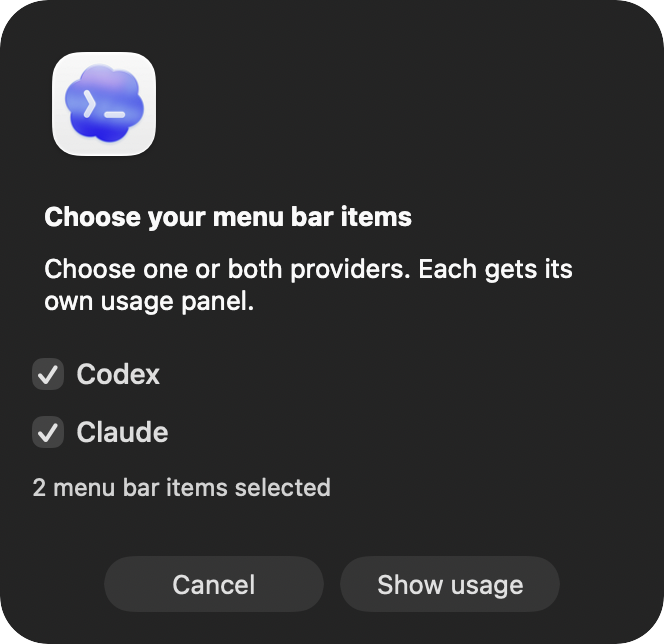
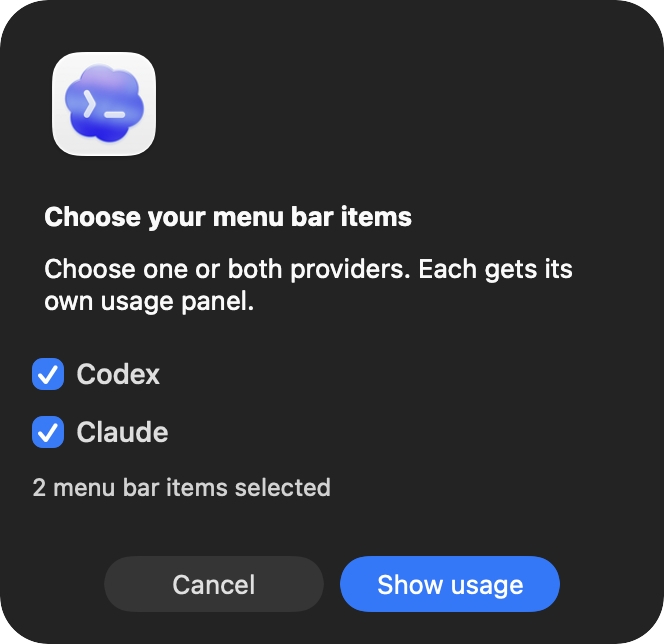
Capture provider chooser with active default button (#15)

Changed region(s): [[0.512, 0.8385, 0.8434, 0.9627], [0.0301, 0.559, 0.1205, 0.7143]]

diff --git a/scripts/capture_provider_chooser.swift b/scripts/capture_provider_chooser.swift
@@ -20,11 +20,40 @@ struct ProviderChooserCapture {
         app.finishLaunching()
         let chooser = UsageProviderChooser(current: .both)
         var succeeded = false
-        let timer = Timer(timeInterval: 1, repeats: false) { _ in
+        var activeSince: Date?
+        let deadline = Date().addingTimeInterval(5)
+        let timer = Timer(timeInterval: 0.1, repeats: true) { timer in
             MainActor.assumeIsolated {
+                let window = chooser.alert.window
+                let button = chooser.alert.buttons[0]
+                guard app.isActive, window.isKeyWindow else {
+                    activeSince = nil
+                    guard Date() < deadline else {
+                        fputs("Chooser capture failed: window did not become active (appActive=\(app.isActive), windowKey=\(window.isKeyWindow)).\n", stderr)
+                        timer.invalidate()
+                        app.abortModal()
+                        return
+                    }
+                    app.activate(ignoringOtherApps: true)
+                    window.makeKeyAndOrderFront(nil)
+                    return
+                }
+                // AppKit activation is asynchronous. Allow an active display
+                // cycle before snapshotting the accent-colored native controls.
+                guard let activeSince else {
+                    activeSince = Date()
+                    return
+                }
+                guard Date().timeIntervalSince(activeSince) >= 0.2 else { return }
+                timer.invalidate()
                 defer { app.abortModal() }
-                guard let view = chooser.alert.window.contentView else { return }
+                guard button.isEnabled, window.defaultButtonCell === button.cell else {
+                    fputs("Chooser capture failed: Show usage is not the enabled default button.\n", stderr)
+                    return
+                }
+                guard let view = window.contentView else { return }
                 view.layoutSubtreeIfNeeded()
+                view.displayIfNeeded()
                 let bounds = view.bounds.integral
                 guard let bitmap = view.bitmapImageRepForCachingDisplay(in: bounds) else { return }
                 view.cacheDisplay(in: bounds, to: bitmap)
@@ -43,6 +72,7 @@ struct ProviderChooserCapture {
                       let png = rendered.representation(using: .png, properties: [:]) else { return }
                 do {
                     try png.write(to: output)
+                    print("Captured \(appearance) chooser with active key window and enabled default button.")
                     succeeded = true
                 } catch {
                     fputs("Chooser capture failed: \(error)\n", stderr)
